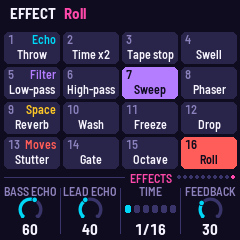
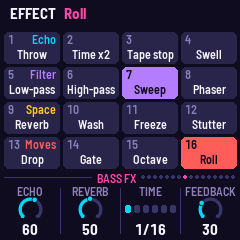
Effects grid: Stutter and Drop swapped (Stutter 12, beside Freeze; Drop 13, with Gate, Octave and Roll)
The black keys keep theirs (they name the effect). The manual's grid picture taken again (the Bass FX page),
the manual, quickstart and emulator guide's tables; effects.gio's Stutter bit.

Claude-Session: https://claude.ai/code/session_017ui7VnMEYufD9otS7nQrFz

diff --git a/tools/emu_guide.html b/tools/emu_guide.html
@@ -87,8 +87,8 @@
       <tbody>
         <tr><td>Echo</td><td>Throw</td><td>Time x2</td><td>Tape stop</td><td>Swell</td></tr>
         <tr><td>Filter</td><td>Low-pass</td><td>High-pass</td><td>Sweep</td><td>Phaser</td></tr>
-        <tr><td>Space</td><td>Reverb</td><td>Wash</td><td>Freeze</td><td>Drop</td></tr>
-        <tr><td>Moves</td><td>Stutter</td><td>Gate</td><td>Octave</td><td>Roll</td></tr>
+        <tr><td>Space</td><td>Reverb</td><td>Wash</td><td>Freeze</td><td>Stutter</td></tr>
+        <tr><td>Moves</td><td>Drop</td><td>Gate</td><td>Octave</td><td>Roll</td></tr>
       </tbody>
     </table></div>
     <p class="note">On the FX pages or with REC held, white keys 1–16 play these, each while held.</p>

diff --git a/tools/make_pages.py b/tools/make_pages.py
@@ -331,8 +331,8 @@ instrument's own.</p>
 <div class="fx">
 <b>Echo</b><span><small>1</small>Throw</span><span><small>2</small>Time x2</span><span><small>3</small>Tape stop</span><span><small>4</small>Swell</span>
 <b>Filter</b><span><small>5</small>Low-pass</span><span><small>6</small>High-pass</span><span><small>7</small>Sweep</span><span><small>8</small>Phaser</span>
-<b>Space</b><span><small>9</small>Reverb</span><span><small>10</small>Wash</span><span><small>11</small>Freeze</span><span><small>12</small>Drop</span>
-<b>Moves</b><span><small>13</small>Stutter</span><span><small>14</small>Gate</span><span><small>15</small>Octave</span><span><small>16</small>Roll</span>
+<b>Space</b><span><small>9</small>Reverb</span><span><small>10</small>Wash</span><span><small>11</small>Freeze</span><span><small>12</small>Stutter</span>
+<b>Moves</b><span><small>13</small>Drop</span><span><small>14</small>Gate</span><span><small>15</small>Octave</span><span><small>16</small>Roll</span>
 </div>
 </section>
 

diff --git a/app/dsp/gio.h b/app/dsp/gio.h
@@ -71,7 +71,7 @@ void en_panic(void);                           /* everything quiet, now */
 void en_song(int i);                           /* a song: its form from the top (its parameters come by en_set) */
 /* the drop-in effects (the Effects page): bit i of the mask on while held; each eases in and out */
 enum { FX_THROW, FX_TIME, FX_TAPESTOP, FX_SWELL, FX_LOWPASS, FX_HIGHPASS, FX_SWEEP, FX_PHASER,
-       FX_REVERB, FX_WASH, FX_FREEZE, FX_DROP, FX_STUTTER, FX_GATE, FX_OCTAVE, FX_ROLL, EN_NFX };
+       FX_REVERB, FX_WASH, FX_FREEZE, FX_STUTTER, FX_DROP, FX_GATE, FX_OCTAVE, FX_ROLL, EN_NFX };
 extern const char *const EN_FX_NAME[EN_NFX];   /* "Throw", "Time x2" ... (the grid's labels) */
 extern const char *const EN_FX_ROW[4];         /* "Echo", "Filter", "Space", "Moves" */
 void en_fx(uint32_t mask);

diff --git a/app/dsp/gio.c b/app/dsp/gio.c
@@ -367,7 +367,7 @@ void en_prog_set(int s, int p, int i, uint16_t c)
 
 /* ------------------------------------------------------------ effects --- */
 const char *const EN_FX_NAME[EN_NFX] = {"Throw", "Time x2", "Tape stop", "Swell", "Low-pass", "High-pass", "Sweep",
-                                        "Phaser", "Reverb", "Wash", "Freeze", "Drop", "Stutter", "Gate", "Octave", "Roll"};
+                                        "Phaser", "Reverb", "Wash", "Freeze", "Stutter", "Drop", "Gate", "Octave", "Roll"};
 const char *const EN_FX_ROW[4] = {"Echo", "Filter", "Space", "Moves"};
 volatile uint16_t en_fx_on;
 static uint16_t fx_mask;

diff --git a/docs/MANUAL.md b/docs/MANUAL.md
@@ -258,7 +258,7 @@ wrong).
 
 ## 8a. Effects
 
-![The effects grid, Sweep and Roll held](img/screen-grid.png)
+![The effects grid on the Bass FX page, Sweep and Roll held](img/screen-grid.png)
 
 Sixteen effects, each on while its key is held, eased in and out; any number together. Every page **FX**
 brings up (the FX pages, below) shows them as a grid, and the white keys play them (white key 1 is the lowest);
@@ -279,8 +279,8 @@ start with the pad out of the echo (Pad echo 0).
 |---|---|---|---|---|
 | Echo (white 1–4) | **Throw**: everything into the echo | **Time x2**: the echo's time doubled, gliding there and back | **Tape stop**: the tape slowing to a quarter, the repeats diving | **Swell**: the echo fed back to the edge |
 | Filter (5–8) | **Low-pass**: the mix down to 350 Hz | **High-pass**: the mix up to 1.3 kHz, thin | **Sweep**: the bass's filter open three octaves, Moroder's hand on the cutoff | **Phaser**: a deep phaser on everything |
-| Space (9–12) | **Reverb**: everything into the plate | **Wash**: the dry down, everything into the echo and the plate | **Freeze**: the plate stops listening and rings on | **Drop**: everything out but the bass and the kick |
-| Moves (13–16) | **Stutter**: a sixteenth of the mix caught and looped | **Gate**: the pad chopped in sixteenths | **Octave**: the bass an octave up | **Roll**: a snare every sixteenth, rising |
+| Space (9–12) | **Reverb**: everything into the plate | **Wash**: the dry down, everything into the echo and the plate | **Freeze**: the plate stops listening and rings on | **Stutter**: a sixteenth of the mix caught and looped |
+| Moves (13–16) | **Drop**: everything out but the bass and the kick | **Gate**: the pad chopped in sixteenths | **Octave**: the bass an octave up | **Roll**: a snare every sixteenth, rising |
 
 ## 9. Saving
 
